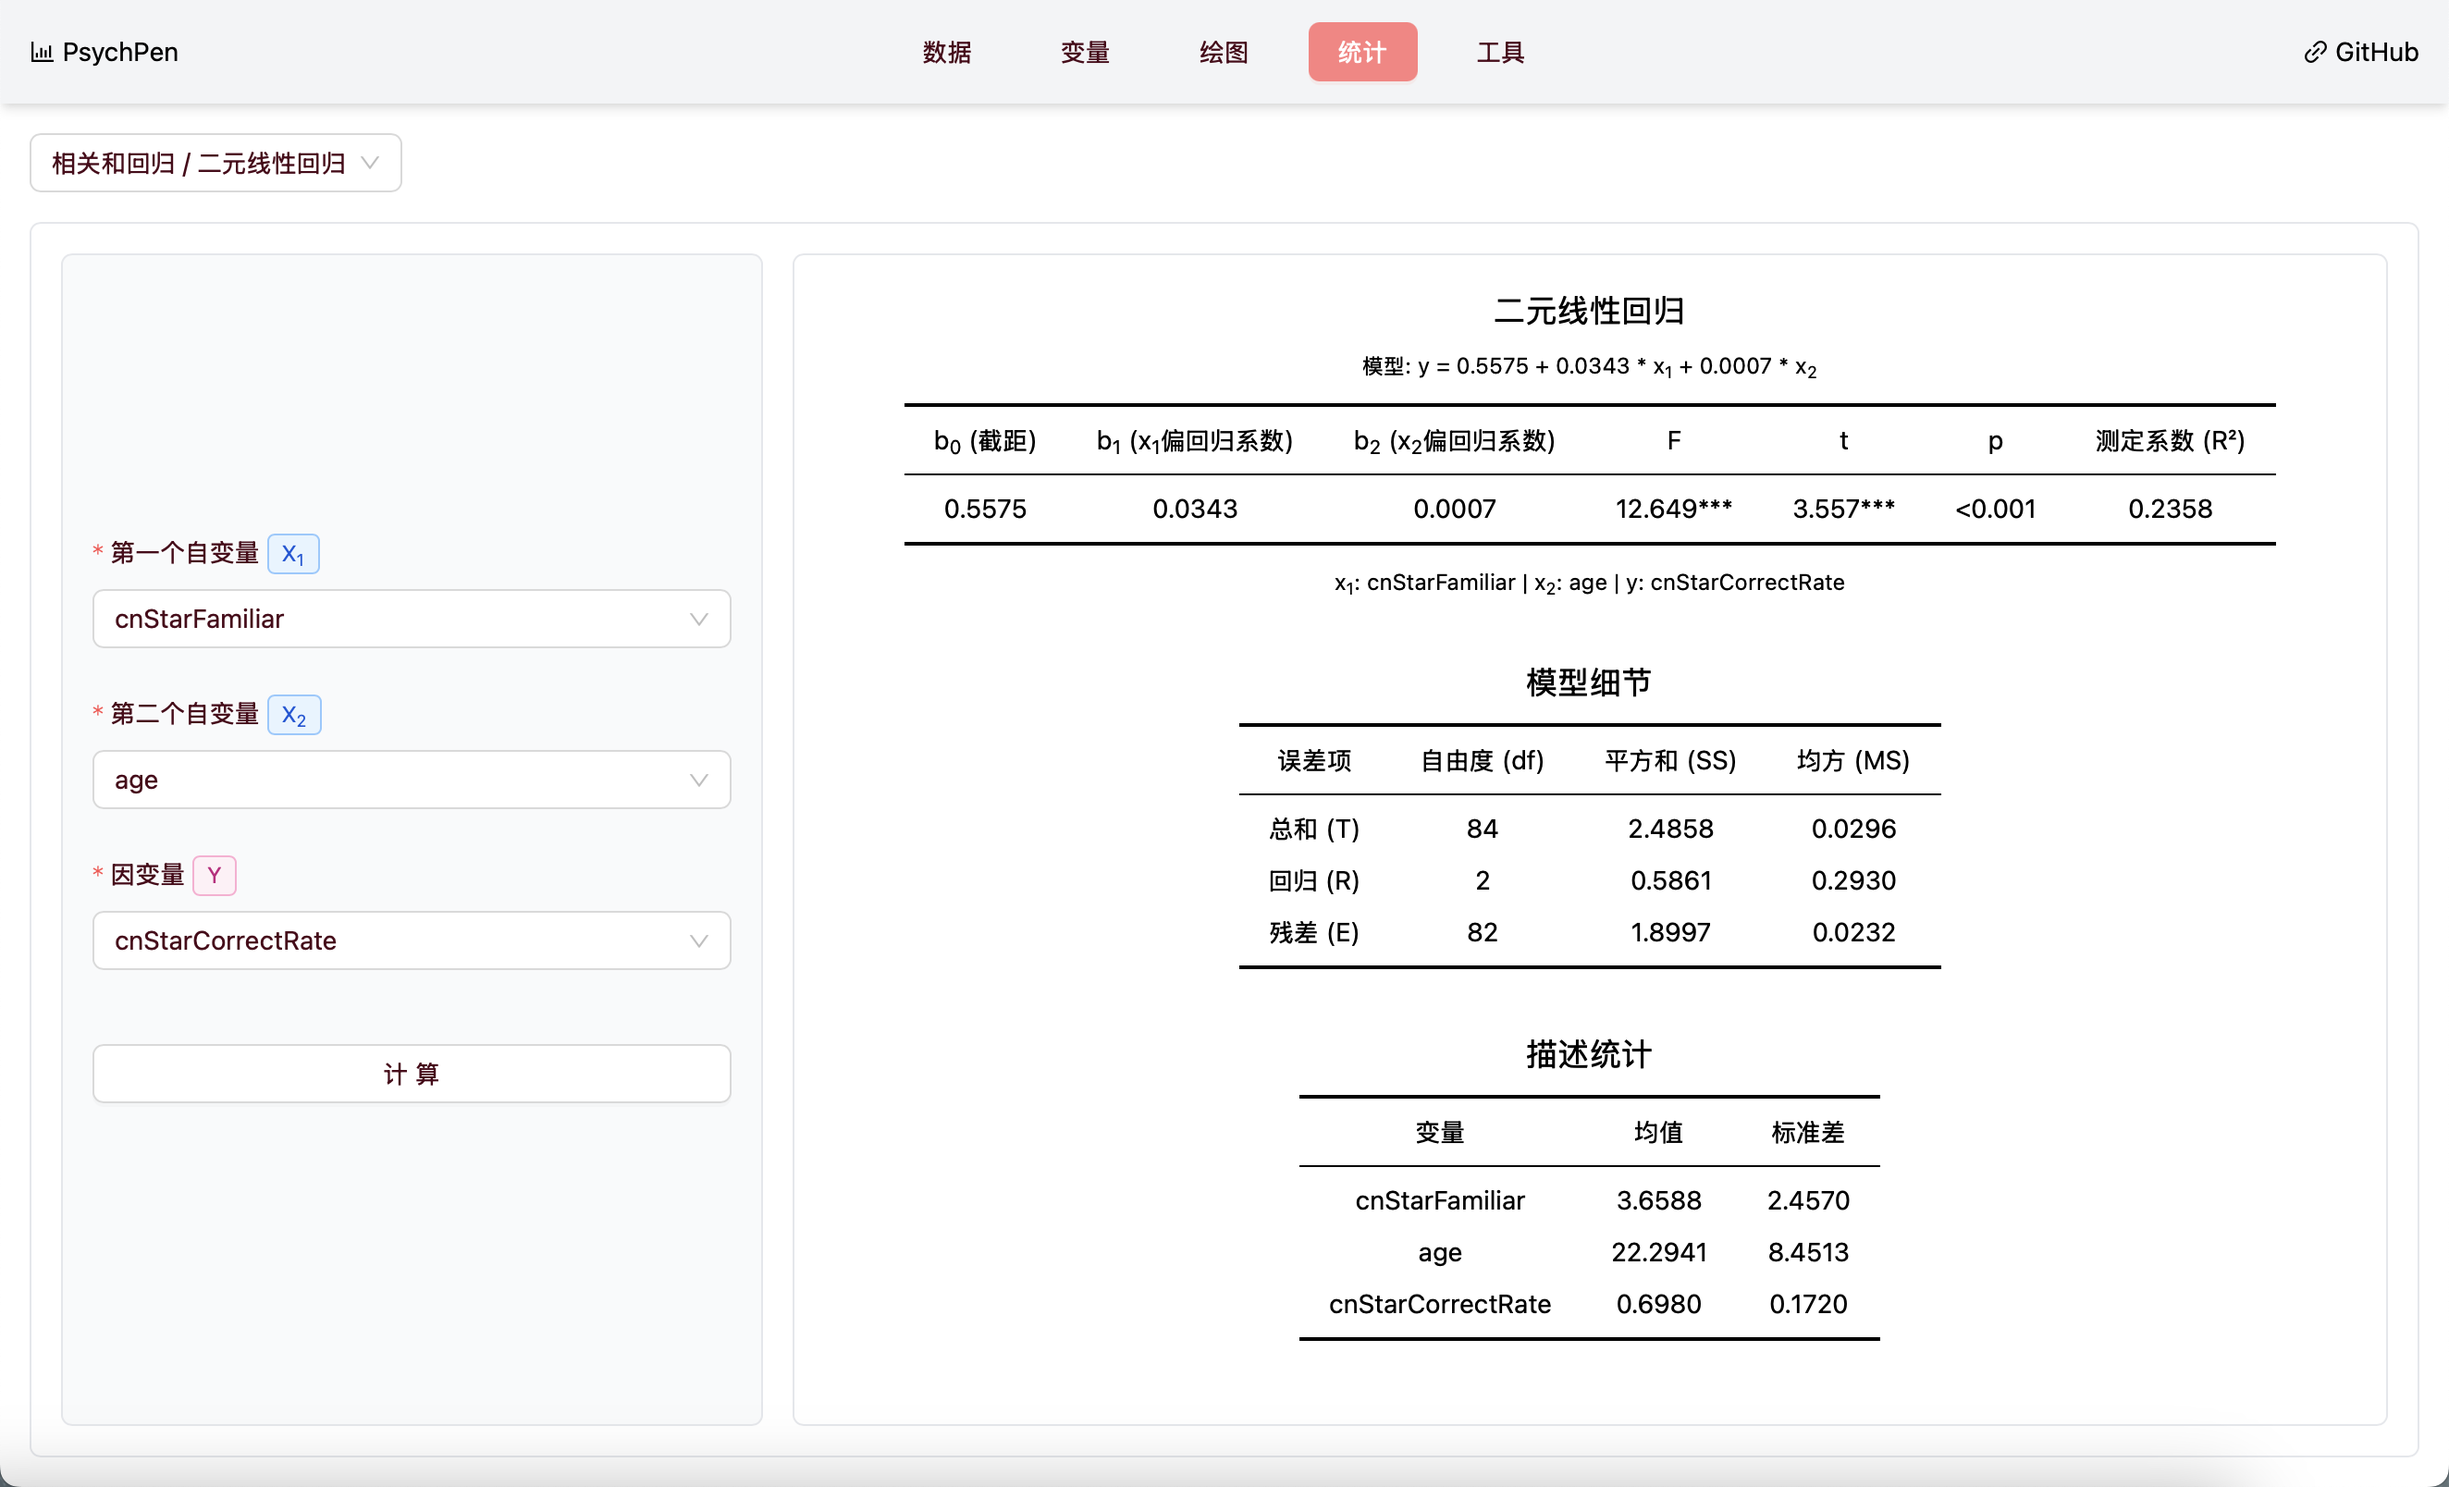
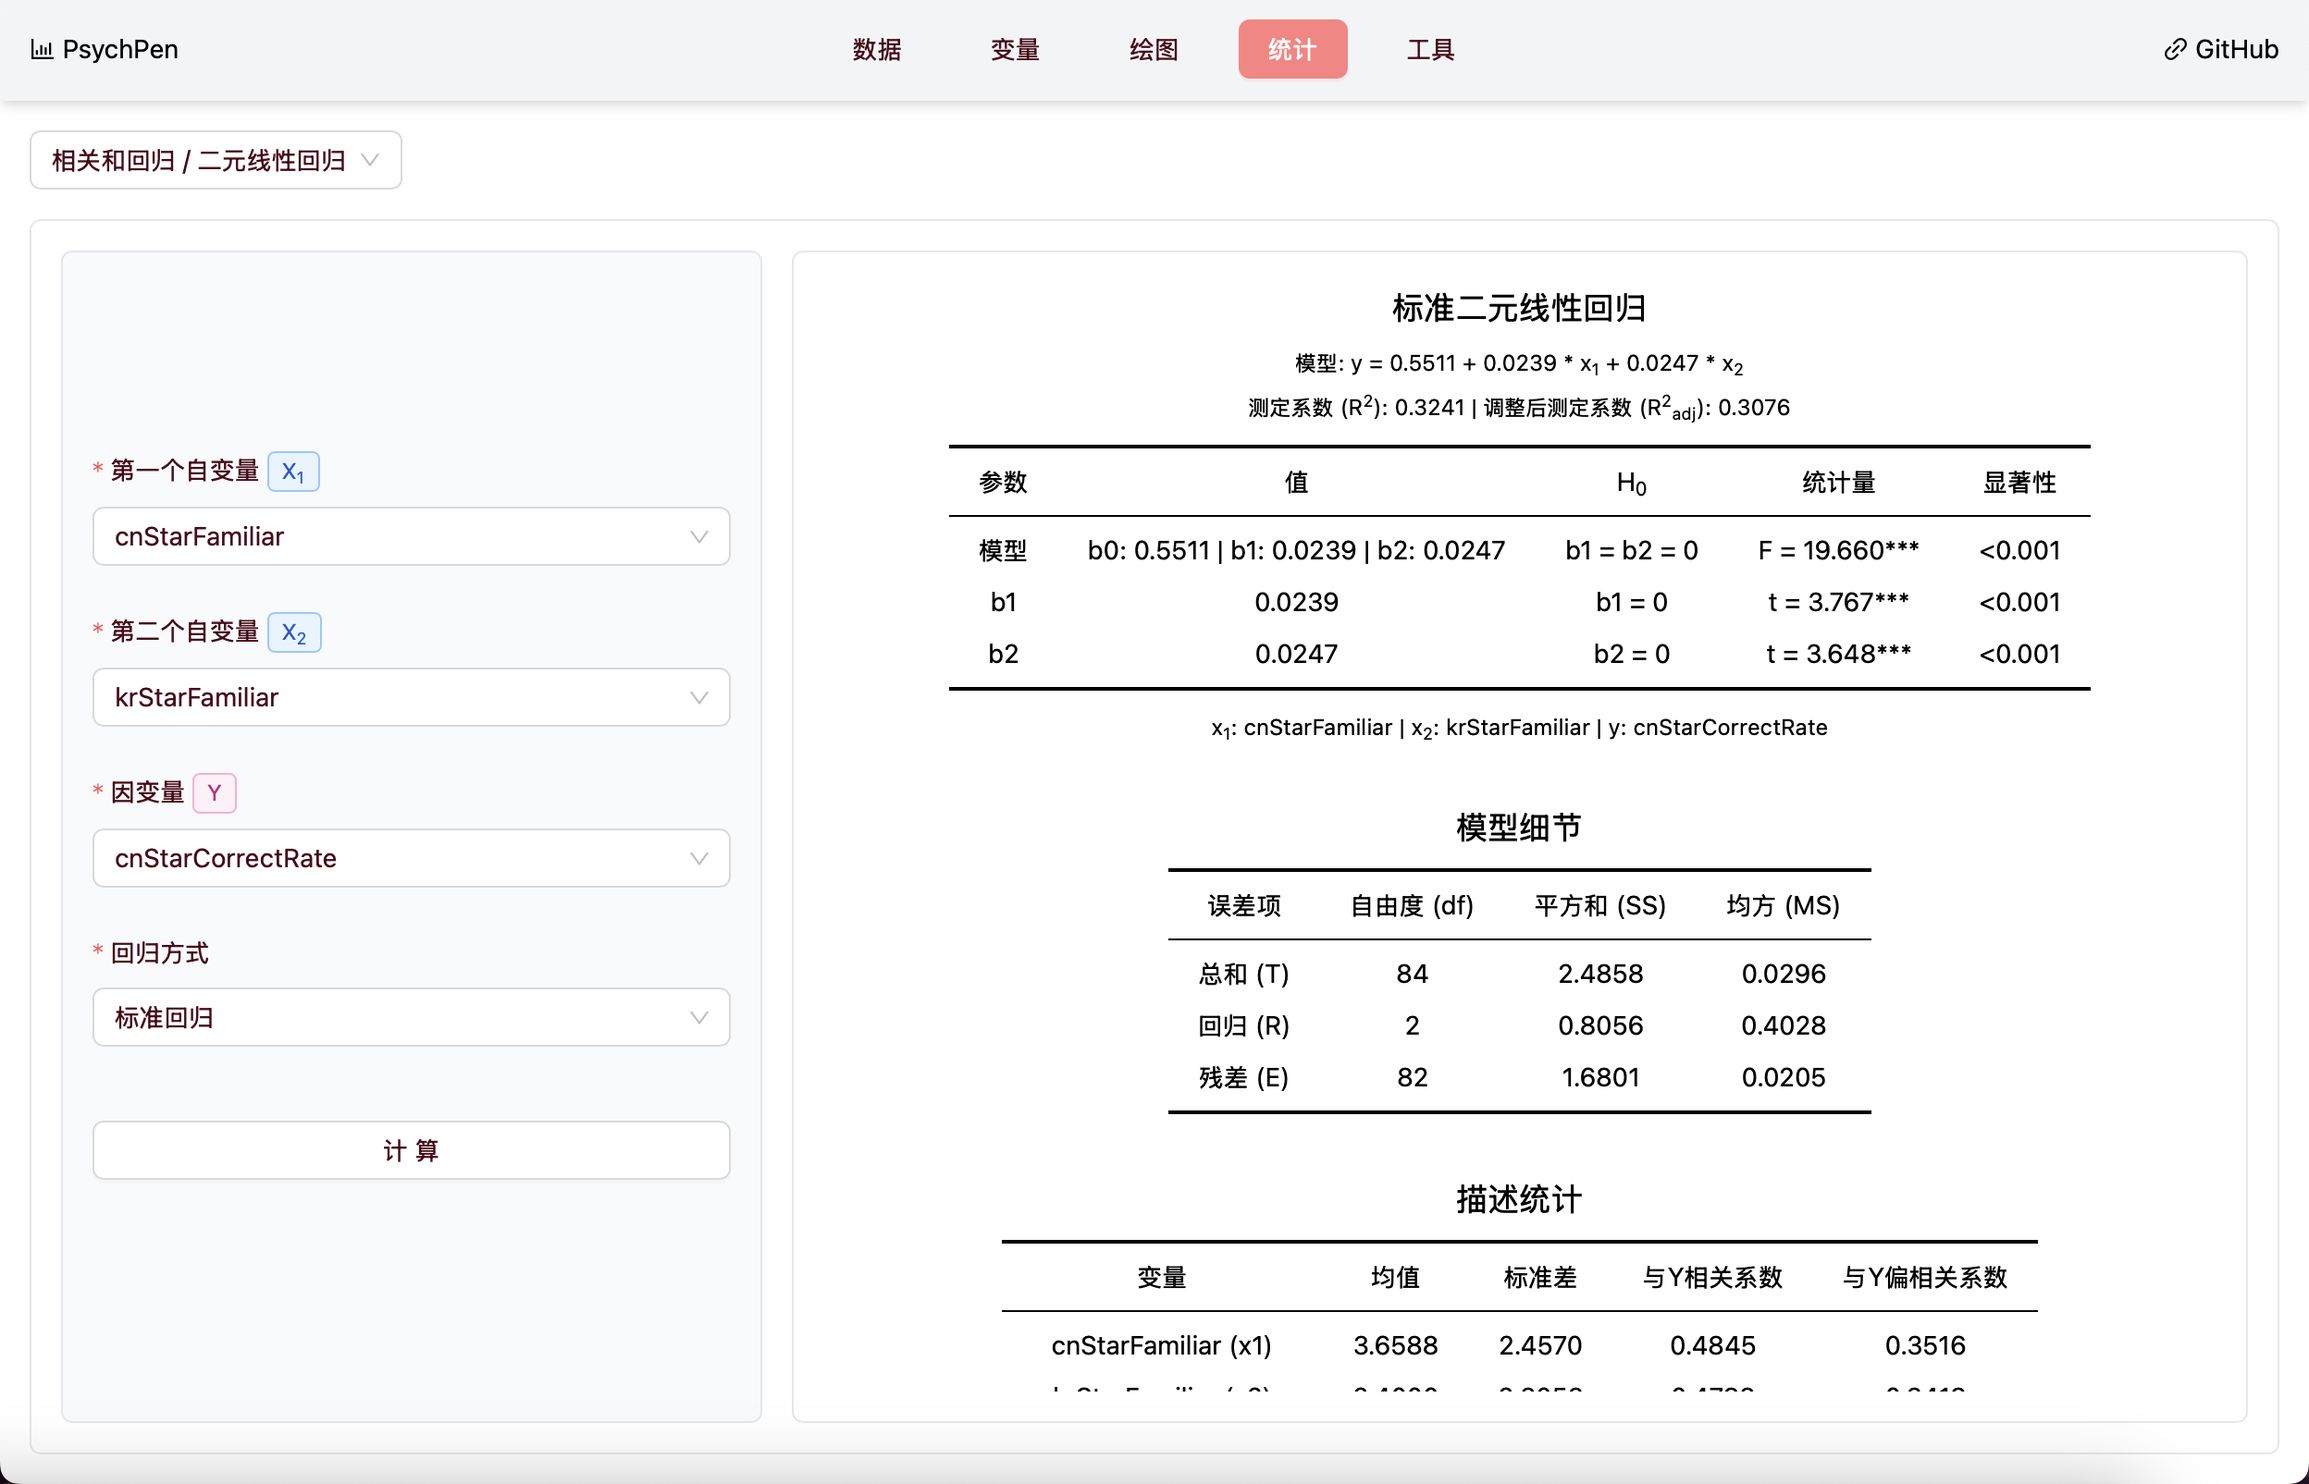
docs: update readme

diff --git a/README.md b/README.md
@@ -44,7 +44,6 @@
       - [5.5.1 Pearson 相关检验](#551-pearson-相关检验)
       - [5.5.2 一元线性回归](#552-一元线性回归)
       - [5.5.3 标准二元线性回归](#553-标准二元线性回归)
-      - [5.5.4 序列多元线性回归](#554-序列多元线性回归)
     - [5.6 信度分析](#56-信度分析)
       - [5.6.1 重测信度/复本信度](#561-重测信度复本信度)
       - [5.6.2 分半信度](#562-分半信度)
@@ -272,15 +271,13 @@ Pearson 相关检验用于检验两组数据之间的线性相关性. 在 Pearso
 
 #### 5.5.3 标准二元线性回归
 
-标准二元线性回归用于检验两个自变量对一个因变量的影响, 而两个自变量对因变量的共同影响将被排除. 在二元线性回归页面中, 你可以选择你要进行检验的两个自变量和因变量, 点击 `计算` 按钮即可进行标准二元线性回归
+标准二元线性回归用于检验两个自变量对一个因变量的影响, 而两个自变量对因变量的共同影响将被排除. 在二元线性回归页面中, 你可以选择你要进行检验的两个自变量和因变量, 并在回归方式中选择 `标准回归`, 点击 `计算` 按钮即可进行标准二元线性回归
 
-![](readme/stat-16.png)
+序列多元线性回归用于检验多个自变量对一个因变量的影响, 变量进入模型的顺序将影响回归系数, 后进入模型的变量对因变量的影响将排除前面进入模型的变量的影响. 在序列多元线性回归页面中, 你可以选择你要进行检验的多个自变量和因变量, 并在回归方式中选择 `序列回归`, 点击 `计算` 按钮即可进行序列多元线性回归
 
-#### 5.5.4 序列多元线性回归
-
-序列多元线性回归用于检验多个自变量对一个因变量的影响, 变量进入模型的顺序将影响回归系数, 后进入模型的变量对因变量的影响将排除前面进入模型的变量的影响. 在序列多元线性回归页面中, 你可以选择你要进行检验的多个自变量和因变量, 点击 `计算` 按钮即可进行序列多元线性回归
-
-![](readme/stat-17.png) // 记得截图
+| 标准二元线性回归 | 序列多元线性回归 |
+| :---: | :---: |
+| ![](readme/stat-16.png) | ![](readme/stat-17.png) |
 
 ### 5.6 信度分析 
 
